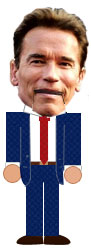
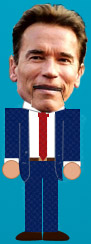
regiggering design

diff --git a/public/stylesheets/application.css b/public/stylesheets/application.css
@@ -536,40 +536,47 @@ body {
     border: none;
     color: #888; }
 
-#wrapper #top-bar #top-bar-inner {
-  margin-top: 20px;
-  border: none; }
-  #wrapper #top-bar #top-bar-inner #logo {
-    font-family: "Georgia", "Times New Roman", serif;
-    background: url('../images/aaarnold.jpg') no-repeat;
-    color: #fff;
-    font-weight: bold;
-    font-style: italic;
-    font-size: 30px;
-    height: 300px;
-    width: 100%; }
-    #wrapper #top-bar #top-bar-inner #logo p {
-      color: #fff; }
+#wrapper {
+  background: #F6F6F6; }
+  #wrapper #top-bar #top-bar-inner {
+    margin-top: 20px;
+    border: none;
+    padding: 83px 0 0 0; }
+    #wrapper #top-bar #top-bar-inner #logo {
+      font-family: "Georgia", "Times New Roman", serif;
+      background: url('../images/aaarnold.png') no-repeat;
+      color: #fff;
+      font-weight: bold;
+      font-style: italic;
+      font-size: 30px;
+      height: 300px;
+      margin-left: 65px;
+      width: 100%; }
+      #wrapper #top-bar #top-bar-inner #logo p {
+        color: #fff; }
 
 #content {
   width: 100%; }
   #content #sidebar {
-    background: #000;
+    background: #0187ab;
+    background: -webkit-gradient(linear, left top, left bottom, from(#0090b5), to(#01546f));
+    background: -moz-linear-gradient(top,  #0090b5,  #01546f);
+    filter: progid:DXImageTransform.Microsoft.gradient(startColorstr='#0090b5', endColorstr='#01546f');
     float: left;
     height: 1000px;
-    padding-top: 40px;
-    width: 210px; }
+    margin-right: 20px;
+    width: 190px; }
   #content #main {
-    float: left;
-    width: 700px;
-    margin: 0 10px;
-    padding-top: 40px; }
+    margin: 0 10px 0 20px;
+    padding-top: 150px;
+    width: 1100px; }
     #content #main #bubble {
       background: url("../images/bubble.png");
-      height: 113px;
-      margin-left: -60px;
+      height: 172px;
+      margin-left: 145px;
+      margin-top: -130px;
       position: absolute;
-      width: 303px;
+      width: 940px;
       z-index: 98; }
 
 .header-group {

diff --git a/public/stylesheets/sass/application.sass b/public/stylesheets/sass/application.sass
@@ -5,7 +5,8 @@
 @import fancypants/_messages.sass
 @import fancypants/_default.sass
 
-#wrapper  
+#wrapper
+  :background #F6F6F6
   #top-bar
     //:background -webkit-gradient(linear, left top, left bottom, from(#0090b5), to(#01546f))
     //:background -moz-linear-gradient(top,  #0090b5,  #01546f)
@@ -13,14 +14,16 @@
     #top-bar-inner
       :margin-top 20px
       :border none
+      :padding 83px 0 0 0
       #logo
         +typeSerif
-        :background url('../images/aaarnold.jpg') no-repeat
+        :background url('../images/aaarnold.png') no-repeat
         :color #fff
         :font-weight bold
         :font-style italic
         :font-size 30px
         :height 300px
+        :margin-left 65px
         :width 100%
         p
           :color #fff
@@ -28,22 +31,25 @@
 #content
   :width 100%
   #sidebar
-    :background #000
+    :background #0187ab
+    :background -webkit-gradient(linear, left top, left bottom, from(#0090b5), to(#01546f))
+    :background -moz-linear-gradient(top,  #0090b5,  #01546f)
+    :filter progid:DXImageTransform.Microsoft.gradient(startColorstr='#0090b5', endColorstr='#01546f')
     :float left
     :height 1000px
-    :padding-top 40px
-    :width 210px
+    :margin-right 20px
+    :width 190px
   #main
-    :float left
-    :width 700px
-    :margin 0 10px
-    :padding-top 40px
+    :margin 0 10px 0 20px
+    :padding-top 150px
+    :width 1100px
     #bubble
       :background url("../images/bubble.png")
-      :height 113px
-      :margin-left -60px
+      :height 172px
+      :margin-left 145px
+      :margin-top -130px
       :position absolute
-      :width 303px
+      :width 940px
       :z-index 98
       
   
